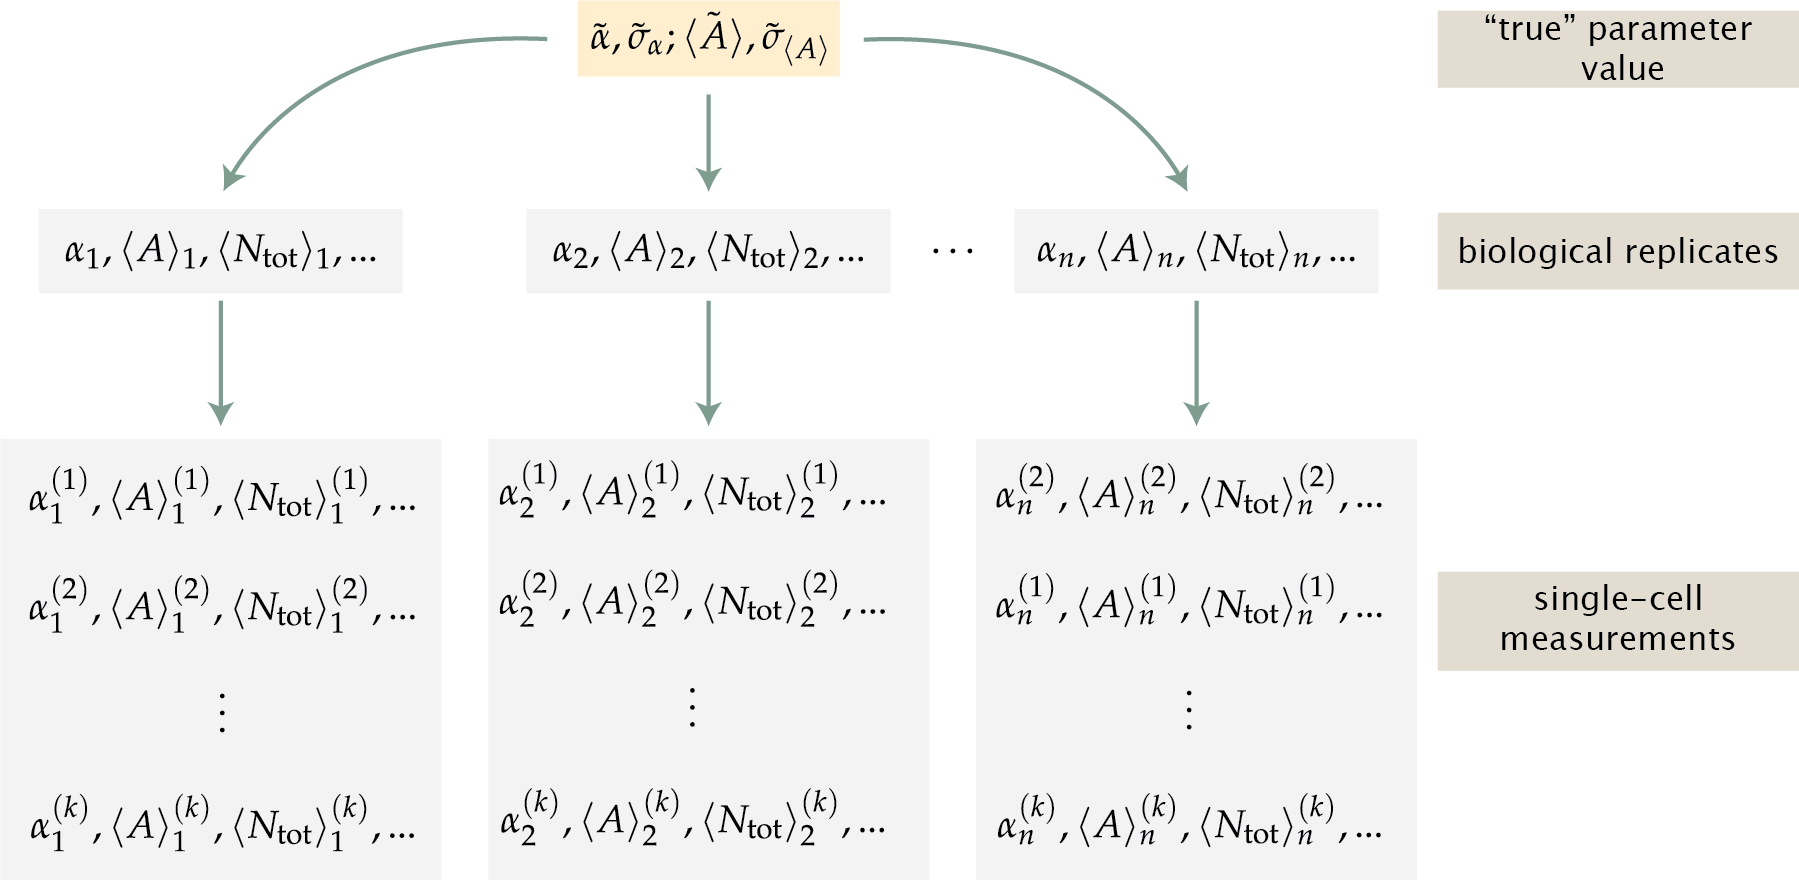
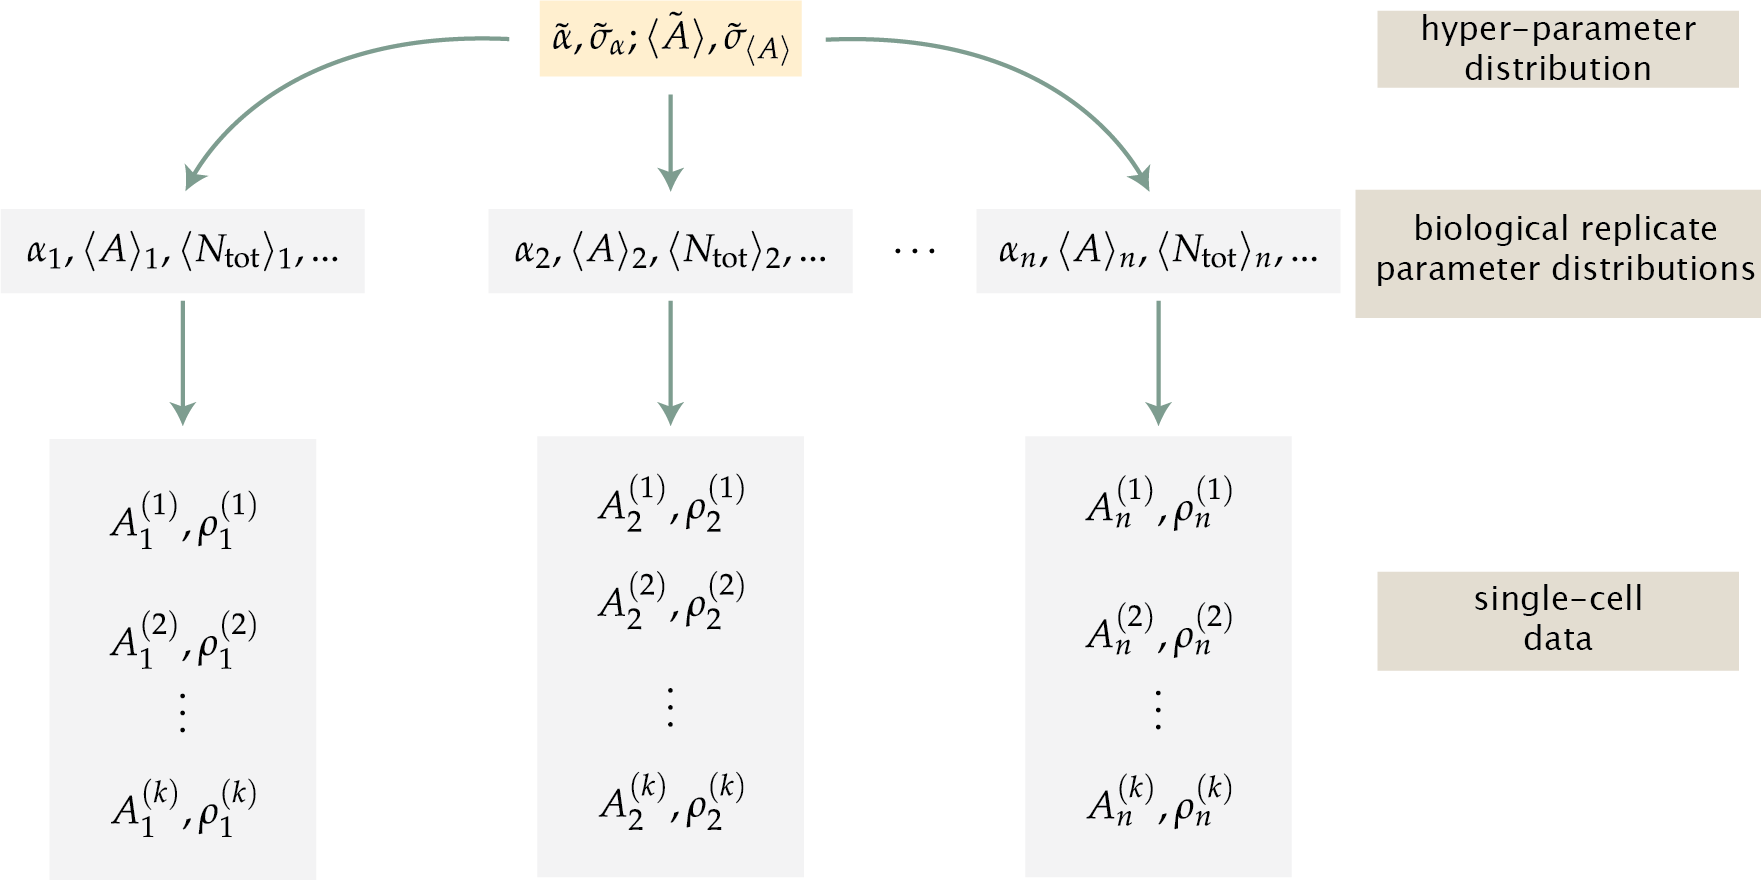
Completed first draft of standard candle parameter estimation ssupplemental section

diff --git a/code/figs/figSX_posterior_distributions.py b/code/figs/figSX_posterior_distributions.py
@@ -19,24 +19,31 @@ data = pd.read_csv('../../data/csv/complete_mcmc_traces.csv')
 # Define model contants.
 REP = 6
 
-# Set up the figure canvas and format
-fig, ax = plt.subplots(1, 2, figsize=(6, 4), sharey=True)
-ax[0].set_xlabel('calibration factor [a.u./channel]')
-ax[1].set_xlabel('average cell area [µm$^2$]')
-ax[0].set_ylabel('$\propto$ probability')
-ax[1].set_ylabel('$\propto$ probability')
-fig.text(0.0, 1.05, '(A)', fontsize=8)
-fig.text(0.55, 1.05, '(B)', fontsize=8)
-for a in ax:
-    a.set_yticks([])
+#%%
+fig = plt.figure(figsize=(6, 4))
+gs = gridspec.GridSpec(10, 10)
+ax0 = fig.add_subplot(gs[:, 0:6])
+ax1 = fig.add_subplot(gs[:5, 6:])
+ax2 = fig.add_subplot(gs[5:, 6:])
+ax0.set_ylim([2500, 4100])
+ax0.set_xlim([4.75, 6])
+fig.text(0, 0.95, '(A)', fontsize=8)
+fig.text(0.6, 0.95, '(B)', fontsize=8)
+fig.text(0.6, 0.5, '(C)', fontsize=8)
+# Plot the KDE if the samples.
+_ = sns.kdeplot(data['hyper_A_mu'], data['hyper_alpha_mu'], ax=ax0, shade=True,
+cmap=plt.cm.Reds)
+ax0.set_ylabel('calibration factor [a.u. / MscL channel]', fontsize=8)
+ax0.set_xlabel('average cell area [µm$^2$]', fontsize=8)
 
 
 # Add a fake legend
-ax[0].plot([], [], color=colors['blue'], lw=3, label='replicate parameter posterior probability')
-ax[0].plot([], [], color=colors['red'], lw=3, label='hyperparameter posterior probability')
-ax[0].legend(bbox_to_anchor=(1.05, 1.15), fontsize=8)
+ax1.plot([], [], color=colors['blue'], lw=3, label='replicate\n parameter')
+ax1.plot([], [], color=colors['red'], lw=3, label='hyper-\nparameter')
+ax1.legend(fontsize=8, handlelength=1)
+
 # Evaluate the KDE for the low-level parameters
-alpha_range = np.linspace(2000, 6000, 500)
+alpha_range = np.linspace(2000, 8000, 500)
 area_range = np.linspace(4, 6.5, 500)
 for i in range(6):
     # Evaluate the KDE and normalize.
@@ -48,10 +55,10 @@ for i in range(6):
     area_fit *= np.sum(area_fit)**-1
 
     # Plot the distributions.
-    _ = ax[0].plot(alpha_range, alpha_fit, color=colors['blue'])
-    _ = ax[1].plot(area_range, area_fit, color=colors['blue'])
-    _ = ax[0].fill_between(alpha_range, alpha_fit, alpha=0.2, color=colors['light_blue'])
-    _ = ax[1].fill_between(area_range, area_fit, alpha=0.2, color=colors['light_blue'])
+    _ = ax1.plot(alpha_range, alpha_fit, color=colors['blue'])
+    _ = ax2.plot(area_range, area_fit, color=colors['blue'])
+    _ = ax1.fill_between(alpha_range, alpha_fit, alpha=0.2, color=colors['light_blue'])
+    _ = ax2.fill_between(area_range, area_fit, alpha=0.2, color=colors['light_blue'])
 
 
 # Plot the hyper parameters
@@ -61,11 +68,19 @@ hyper_alpha_fit = hyper_alpha_kernel(alpha_range)
 hyper_area_fit = hyper_area_kernel(area_range)
 hyper_alpha_fit *= np.sum(hyper_alpha_fit)**-1
 hyper_area_fit *= np.sum(hyper_area_fit)**-1
-_ = ax[0].plot(alpha_range, hyper_alpha_fit, color=colors['red'], lw=3) 
-_ = ax[0].fill_between(alpha_range, hyper_alpha_fit, color=colors['red'], alpha=0.4, zorder=100) 
-_ = ax[1].plot(area_range, hyper_area_fit, color=colors['red'], lw=3) 
-_ = ax[1].fill_between(area_range, hyper_area_fit, color=colors['red'], alpha=0.4, zorder=100) 
+_ = ax1.plot(alpha_range, hyper_alpha_fit, color=colors['red'], lw=3) 
+_ = ax1.fill_between(alpha_range, hyper_alpha_fit, color=colors['red'], alpha=0.4, zorder=100) 
+_ = ax2.plot(area_range, hyper_area_fit, color=colors['red'], lw=3) 
+_ = ax2.fill_between(area_range, hyper_area_fit, color=colors['red'], alpha=0.4, zorder=100) 
+ax1.set_xlabel('calibration factor [a.u./channel]', fontsize=8)
+ax2.set_xlabel('average cell area [µm$^2$]', fontsize=8)
+ax1.set_ylabel('$\propto$ probability', fontsize=8)
+ax2.set_ylabel('$\propto$ probability', fontsize=8)
+for a in (ax1, ax2):
+    a.set_yticks([])
 
-plt.tight_layout()
+for a in (ax0, ax1, ax2):
+    a.tick_params(labelsize=8)
 plt.savefig('../../figs/figS{}.png'.format(FIG_NO), bbox_inches='tight', dpi=300)
 plt.savefig('../../figs/figS{}.pdf'.format(FIG_NO), bbox_inches='tight', dpi=300)
+plt.tight_layout()

diff --git a/doc/appendix_C_standard_candle.md b/doc/appendix_C_standard_candle.md
@@ -88,124 +88,33 @@ As small variations in the day-to-day details of cell growth and sample preparat
 
 ### A hierarchical model for estimating $\alpha$
 
-In the previous section, we assumed maximally uninformative priors for the most-likely parameter values for $\alpha$ and $\langle N_\text{tot} \rangle$.
+In the previous section, we assumed maximally uninformative priors for the most-likely parameter values for $\alpha$ and $\langle N_\text{tot} \rangle$. While this is a fair approach to take for these parameters, we are not completely ignorant for how these values are distributed across biological replicates. A major assumption of our model is that the most-likely value of $\alpha$ and $\langle A \rangle$ for each biological replicate are comparable, so long as the experimental error between them is accounted for. In other words, we are assuming that the most-likely value for each replicate is drawn from a global distribution. While each replicate may have a unique value, they are all related to one another. With enough replicates, we would be able to adequately sample this distribution by treating each replicate independently. Unfortunately, proper sampling of this distribution requires an extensive amount of experimental work, making inferential approaches more attractive. 
 
------
+In this approach, often called a multi-level or hierarchical model, is schematized in [@Fig:hierarchical_model]. Here, we use  an informative prior for $\alpha$ and $\langle A \rangle$ for each biological replicate. This informative prior probability distribution can be described by the summary statistics, often called hyper-parameters, which are then used as the most-likely values for the parameters. As this approach allows us to get a picture of the probability distribution of the hyper-parameters, we are able to report a point estimate and error that captures all known sources of the statistical error.
 
-All of these measurements are made via microscopy. As is the nature of the experiments, cells that are about to divide or small clusters of cells could be counted a single cell with a very large number of channels. We can correct for this effect by calculating the average areal intensity and multiplying by the average cellular area, which we can restrict to reasonable bounds in the analysis (e.g. no cells larger than 10 $\mu$m$^2$ in projected 2D area). Using ths correction, [@eq:avg_ian] can be written  as
+![**Schematic of hierarchical model structure**. The hyper-parameter probability distributions (top panel) are used as an informative prior for the most-likely parameter values for each biological replicate (middle panel). The single-cell measurements of cell area and areal intensity (bottom panel) are used as data in the evaluation of the likelihood](../figs/hierarchical_model.png){#Fig:hierarchical_model}
+
+The choice for the functional form for the informative prior is often not obvious and can require other experimental approaches or back-of-the-envelope estimates to approximate. Each experiment in this work was carefully constructed to minimize the day-to-day variation. This involved adhering to well-controlled growth temperatures and media composition, harvesting of cells at comparable optical densities, and ensuring identical imaging parameters. As the experimental variation is minimized, we can use our knowledge of the underlying biological processes to guess at the approximate functional form. For similar reasons presented in the previous section, cell size is controlled by a myriad of independent processes. As each replicate is independent of another, it is reasonable to assume a normal distribution for the average cell area for each replicate. This normal distribution is described by a mean $\tilde{\langle A \rangle}$ and variance $\tilde{\sigma}_{\langle A \rangle}$. Therefore, the prior for $\langle A \rangle$ for $n$ biological replicates can be written as
 $$
-\langle I_\text{tot} \rangle = \langle I_{\mu m^2} \rangle \langle A \rangle = \alpha \langle N_\text{tot} \rangle,
-$${#eq:ian_area}
-
-where $\langle A \rangle$ is the average cell area of the population. Rewriting [@eq:ian_area]  to solve for $\alpha$ yields
+g(\langle A \rangle\, \vert\, \tilde{\langle A \rangle}, \tilde{\sigma}_{\langle A \rangle}) \propto {1 \over \tilde{\sigma}_{\langle A \rangle}^n}\prod\limits_{j=1}^{n}\exp\left[-{(\langle A \rangle_j - \tilde{\langle A \rangle})^2 \over 2 \tilde{\sigma}_{\langle A \rangle}^2}\right].
+$${#Eq:hyperprior_area}
+In a similar manner, we can assume that the calibration factor for each replicate is normally distributed with a mean $\tilde{\alpha}$ and variance $\tilde{\sigma}_\alpha$,
 $$
-\alpha = {\langle I_{\mu m^2} \rangle \langle A \rangle \over \langle N_\text{tot} \rangle}.
-$${#eq:alpha_definition_avgs}
-
-With this model in hand, we can construct a Bayesian hierarchical model to estimate the most likely value of $\alpha$ from a set of several biological replicates. 
-
-### A hierarchical model for $\alpha$. ###
-
-![**A hierarchical model for estimation of the calibration factor and average cell size.** ](../figs/hierarchical_model.png)
-#### A single replicate
-We can begin by thinking of a single biological replicate. Suppose this data set contains many measurements of single cells and includes the average areal intensity of each cell and the cell area (both in the same units of area, such as pixels or $\mu$m$^2$). Using Bayes' theorem, and our knowledge of the mean expression level (from HJ and Maja), we can write an expression for the probability distribution of $\alpha$  as
-
+g(\alpha\,\vert\,\tilde{\alpha}, \tilde{\sigma}_\alpha) \propto {1 \over \tilde{\sigma}_\alpha^n}\prod\limits_{j=1}^n \exp\left[-{(\alpha_j - \tilde{\alpha})^2 \over 2\tilde{\sigma}_\alpha^2}\right].
 $$
-g(\alpha, \langle I_{A} \rangle, \langle A\rangle \,\vert\, D \langle N_\text{tot} \rangle) = {f(D\,\vert\, \alpha, \langle I_A \rangle, \langle A \rangle, \langle N_\text{tot}\rangle)g(\alpha, \langle I_A \rangle, \langle A \rangle)f(\langle N_\text{tot}\rangle)\over f(\langle I_A \rangle , \langle A \rangle, \langle N_\text{tot} \rangle )}.
-$$ {#eq:bayes}
 
-As the average area is independent of the average intensity, the likelihood can be rewritten as
-$$
-f(\langle I_A \rangle, \langle A \rangle) = f(\langle I_A \rangle\, \vert \, \langle N_\text{tot} \rangle, \alpha, \langle A \rangle) f(\langle A \rangle)f(\langle N_\text{tot} \rangle).
-$${#eq:area_likelihood}
-However, we must be careful to include the single cell area in our definition of the likelihood for $I_A$, which we will get to shortly.
+With the inclusion of two more normally distributed parameters, we have introduced four new parameters, each of which needing their own prior. However, our knowledge of the reasonable values for the hyper-parameters has not changed from those described for a single replicate. We can therefore use the same maximally uninformative Jeffreys priors given in [@Eq:Jeffreys] for the variances and the uniform distributions given in [@Eq:alpha_uniform_prior] and [@Eq:area_uniform_prior] for the means.
 
-For these likelihoods, we can make some assumptions about their distributions. As the cell area and the intensity are both the result of many independent cellular processes, we can assume that they are normally distributed. We can therefore write the likelihood for the area,
-$$
-f(\langle A \rangle\, \vert \sigma_A, D) = {1 \over (2\sigma_A^2\pi)^{k/2}}\prod\limits_{j=1}^k\exp\left[-{(A_j - \langle A \rangle)^2 \over 2\sigma_A^2 }\right],
-$${#eq:area_like}
-
-where $D$ represents the set of $k$ experimental measurements. Similarly, we can use [@eq:ian_area] to write the likelihood for the average areal intensity as
-$$
-f(\langle I_A \rangle\, \vert \, \sigma_{I_A}, \alpha, \langle N_\text{tot} \rangle, \langle A \rangle ,D) = {1 \over (2\sigma_{I_A}^2\pi)^{k/2}}\prod\limits_{j=1}^k\exp\left[- {\left({I_j \over A_j} - {\alpha \langle N_\text{tot}\rangle \over \langle A \rangle }\right)^2  \over 2\sigma_{I_A}^2}\right],
-$${#eq:intensity_like}
-
-where we have used [@eq:ian_area] to calculate $\langle I_A \rangle$ of the population.
-
-In our assumption of normal distributions for the areal intensity and area, we have included two new parameters which capture the error in our measurement $\sigma_A$ and $\sigma_{I_A}$. The complete posterior distribution for  a single biological replicate is therefore
-
+Stitching all of this work together generates the full posterior probability distribution for the best-estimate of $\alpha$ and $\langle A \rangle$ shown in [@Eq:avg_ian] given $n$ replicates of $k$ single cell measurements, 
 $$
 \begin{aligned}
-g(\alpha, \langle A \rangle, \langle N_\text{tot}\rangle, \sigma_A, \sigma_{I_A} \vert  D) =& {1 \over (2\pi \sigma_A \sigma_{I_A})^k}\prod\limits_{j=1}^k\exp\left[-{(A_j - \langle A \rangle)^2 \over 2\sigma_A^2} - {\left({I_j \over A_j}- {\alpha \langle N_\text{tot} \rangle \over \langle A \rangle}\right)^2 \over 2 \sigma_{I_A}^2 } \right]\,\times\, \\
-&f(\langle N_\text{tot}\rangle)g(\alpha,\sigma_A, \sigma_{I_A}),
+g(\tilde{\alpha}, \tilde{\sigma}_\alpha, \tilde{\langle A \rangle}, \tilde{\sigma}_{\langle A \rangle}, &\{\langle N_\text{tot} \rangle, \langle A \rangle, \alpha, \sigma_\rho\}\,\vert\, [\rho, A], \mu_N, \sigma_N) \propto\\
+&{1 \over (\tilde{\alpha}_\text{max} - \tilde{\alpha}_\text{min})(\tilde{\langle A \rangle}_\text{max} - \tilde{\langle A \rangle}_\text{min})\sigma_N^n(\tilde{\sigma}_\alpha\tilde{\sigma}_{\langle A \rangle})^{n + 1}}\,\times\,\\
+&\prod\limits_{j=1}^n\exp\left[-{(\langle N \rangle_j^{(i)} - \mu_N)^2 \over 2\sigma_N^2} - {(\alpha_j - \tilde{\alpha})^2 \over 2\tilde{\sigma}_\alpha^2} - {(\langle A \rangle_j - \tilde{\langle A \rangle})^2 \over 2\tilde{\sigma}_{\langle A \rangle}^2}\right]\,\times\,\\ 
+&{1 \over (\sigma_{\rho_j}\sigma_{\langle A \rangle_j})^{k + 1}}\prod\limits_{i=1}^{k_j}\exp\left[-{(A_j^{(i)} - \langle A \rangle_j)^2 \over 2\sigma^{(i)2}_{\langle A \rangle_j}} - {\left(\rho^{(i)}_j - {\alpha_j \langle N_\text{tot}\rangle_j \over \langle A \rangle_j}\right)\over 2\sigma_{\rho_j}^{(i)2}}\right].
 \end{aligned}
-$$
-{#eq:single_rep_posterior}
+$${#Eq:cal_factor_posterior}
 
-With the likelihood completely described, we are left with fiulling in the priors. The most obvious prior to define is for $\langle N_\text{tot}\rangle$. From the literature, we know the mean value $\mu_{N}$  and a variance $\sigma_{N}$ for this particular strain and growth condition. Using these values, we can specify the prior as
+While [@Eq:cal_factor_posterior] is not analytically solvable, it can be easily sampled using Markov chain Monte Carlo (MCMC). The results of the MCMC sampling for $\tilde{\alpha}$ and $\tilde{\langle A \rangle}$ can be seen in [@Fig:alpha_area_sampling]. From this approach, we found the most-likely parameter values of $3300^{+700}_{-700}$ a.u. per MscL channel and $5.4^{+0.4}_{-0.5}$ $\mu$m$^2$ for $\tilde{\alpha}$ and $\tilde{\langle A \rangle}$, respectively. Here, we've reported the median value of the posterior distribution for each parameter with the upper and lower bound of the 95\% credible region as superscript and subscript, respectively. 
 
-$$
-g(\langle N_\text{tot} \rangle\, \vert\, \mu_N, \sigma_N) = {1 \over \sqrt{2\pi\sigma_N^2}} \exp\left[-{\left(\langle N_\text{tot}\rangle - \mu_N\right)^2}\over 2\sigma_N^2\right].
-$$
-
-We can, of course, specify priors for inferred parameters to be maximally uninformative. However, as we have multiple replicates and we are assuming each replicate is comparable to another, we can be a bit more informative with these priors.
-
-#### Multiple replicates
-
-We expect each biological replicate to behave the same, despite the small experimental differences between them. This means that the model shown in [@eq:single_rep_posterior] should be the same for each replicate. However, we know that the parameters $\alpha, \sigma_A,$ and $\sigma_{I_A}$ should be very similar between replicates. In fact, we can say that the values for each individual replicate are drawn from the same distribution.
-
-The functional form of this distribution is not obvious. However, we know that the value is the result of many independent processes, meaning it is likely gaussian. 
-
-With this assumption in place, we can write the prior distribution of $\langle A \rangle$ for a set of $n$ replicates as
-
-$$
-g(\langle A \rangle\, \vert \, \tilde{\langle A \rangle}, \tilde{\sigma_A}) = {1 \over (2\pi\tilde{\sigma_A}^2)^{n/2}} \prod\limits_{i=1}^n \exp\left[-{\left(\langle A_i\rangle - \tilde{\langle A \rangle}\right)^2 \over 2 \tilde{\sigma_A}^2}\right],
-$${#eq:area_prior}
-
-and for $\alpha$,
-
-$$
-g(\alpha\, \vert \tilde{\alpha}, \tilde{\sigma_\alpha}) = {1 \over (2\pi\tilde{\sigma_\alpha}^2)^{n/2}} \prod \limits_{i=1}^{n}\exp\left[-{\left(\alpha_i - \tilde{\alpha}\right)^2 \over 2\tilde{\sigma_\alpha}^2}\right].
-$${#eq:alpha_prior}.
-
-While we have taken care of the priors listed in [@eq:single_rep_posterior], we have introduced four new parameters, which each need their own prior! For these,we can be maximally uninformative. For $\tilde{\langle A \rangle}$, we can impose a uniform prior over a reasonable range for the size of *E. coli*,
-
-$$
-g(\tilde{\langle A \rangle}) = \begin{cases}\left(\tilde{\langle A \rangle}_\text{max} - \tilde{\langle A \rangle}_\text{min}\right)^{-1} & \tilde{\langle A \rangle}_\text{min} \leq \tilde{\langle A \rangle} \leq \tilde{\langle A \rangle}_\text{max}\\
-0 & \text{otherwise}
-\end{cases}.
-$${#eq:area_hyperprior}
-
-
-We know that the value of $\alpha$ is limited by the bit depth of our camera, though not necessarily an integer. We can assign a uniform prior for $\alpha$ as
-
-$$
-g(\tilde{\alpha}) = \begin{cases} \left(\tilde{\alpha}_\text{max} - \tilde{\alpha}_\text{min}\right)^{-1} & \tilde{\alpha}_\text{min} \leq \tilde{\alpha} \leq \tilde{\alpha}_\text{max}\\
-0 & \text{otherwise}
-\end{cases}.
-$${#eq:alpha_hyperprior}
-
-For $\tilde{\sigma_\alpha}$ and $\tilde{\sigma_A}$, we can use a maximally uninformative Jeffreys priors, 
-
-$$
-g(\tilde{\sigma_\alpha}) = {1 \over \tilde{\sigma_\alpha}},
-$${#eq:sigma_alpha_hyperprior}
-
-and 
-
-$$
-g(\tilde{\sigma_A}) = {1 \over \tilde{\sigma_A}}.
-$${#eq:sigma_area_hyperprior}
-
-Using [@eq:bayes] through [@eq:sigma_area_hyperprior], we can formulate the complete posterior probability distribution,
-$$
-\begin{aligned}
-&g(\alpha, \tilde{\alpha}, \langle A \rangle, \tilde{\langle A \rangle}, \langle N_\text{tot} \rangle, \tilde{\sigma_\alpha}, \sigma_A, \tilde{\sigma_A}, \sigma_{I_A}\,\vert \, \sigma_N, \mu_N, D) = \\
-& {1 \over \tilde{\langle A \rangle}_\text{max} - \tilde{\langle A \rangle}_\text{min}}{1 \over \tilde{\alpha}_\text{max} - \tilde{\alpha}_\text{min}}{1 \over \left(\tilde{\sigma_\alpha}\tilde{\sigma_A}\right)^{n+2}}\prod\limits_{i=1}^n{1 \over \left(\sigma_{A_i}^2\sigma_{{I_A}_i}^2\sigma_N^2\right)^{k_i / 2}}\times\\
-&\prod\limits_{j=1}^{k_i}\exp\left[-{\left(A_{i,j}-\langle A \rangle_i\right)^2 \over 2\sigma_{A_i}^2} - {\left({I_{A_{i,j}} - {\alpha_i \langle N_\text{tot}\rangle_{i} \over \langle A\rangle_i}}\right)^2 \over 2\sigma_{{I_A}_i}^2}-{\left(\alpha_i - \tilde{\alpha}\right)^2 \over 2\tilde{\sigma_{\alpha}}^2}-{\left(\langle A \rangle_i - \tilde{\langle A \rangle}\right)^2 \over 2\tilde{\sigma_A}^2}-{\left(\langle N_\text{tot}\rangle_i - \mu_N\right)^2 \over 2\sigma_N^2}\right],
-\end{aligned}
-$${#eq:posterior}
-
-where the normalization constants have been dropped for notational clarity.
-
-
+![**Posterior distributions for hyper-parameters and replicate parameters.** (A) The posterior probability distribution for $\tilde{\alpha}$ and $\tilde{\langle A \rangle}$. Probability increases from light to dark red. The replicate parameter (blue) and hyper-parameter (red) marginalized posterior probability distributions for $\alpha$ (B) and $\langle A \rangle$ (C).](../figs/FigSX1.png){@Fig:posterior_samples}
